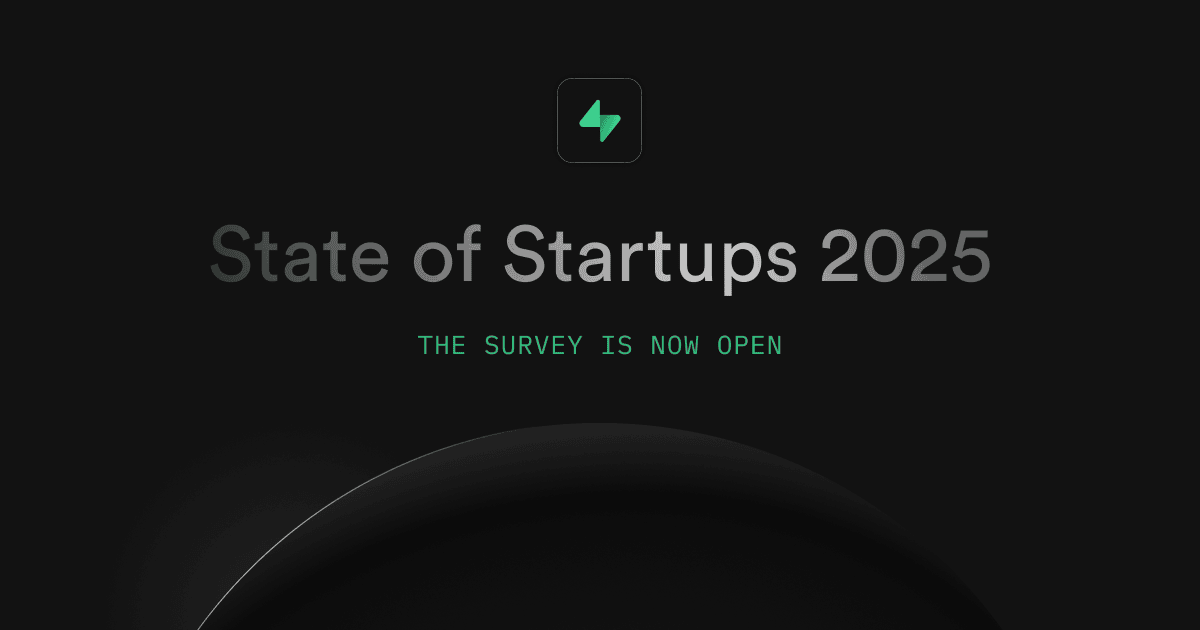
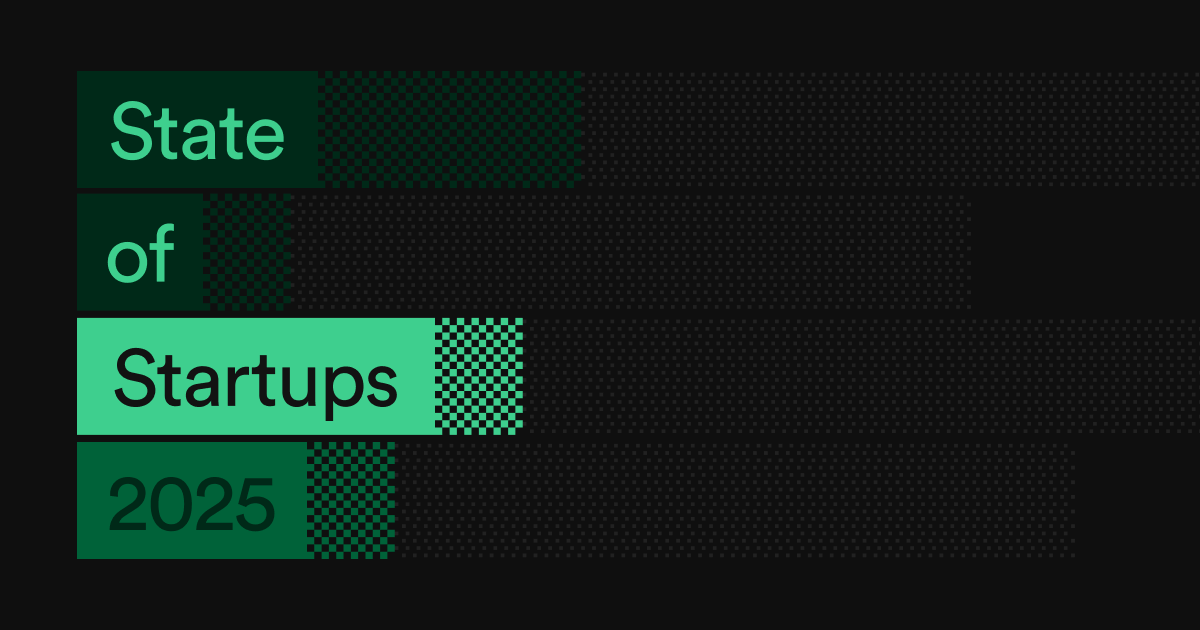
Chore/state of startups (#38733)
* Add StateOfStartupsHeader component and update page

Introduces the StateOfStartupsHeader component for improved header styling on the state-of-startups page. Updates the page to use the new header and refactors the intro section layout. Adds a feature flag override for 'stateOfStartups' in useFlag for debugging purposes.

* Update StateOfStartupsHeader.tsx

* Update StateOfStartupsHeader.tsx

* Refactor progress bar components for reusability

Extracted a reusable ProgressBar component from DecorativeProgressBar and integrated it into StateOfStartupsHeader. Added support for configurable progress bars in header text blocks, improving code modularity and visual customization.

* Refactor StateOfStartupsHeader and update usage

Simplifies StateOfStartupsHeader by removing unused props and internalizing display logic. Progress bar delays are now randomized for a more dynamic effect. Updates state-of-startups.tsx to use the new header signature and removes legacy/commented code.

* Update StateOfStartupsHeader.tsx

* Update state-of-startups-og.png

* Update StateOfStartupsHeader.tsx

* Update header text color and OG image for State of Startups

Changed the 2025 TextBlock text color to 'text-brand-300' for improved visual consistency. Updated the Open Graph image for State of Startups.

diff --git a/apps/www/pages/state-of-startups.tsx b/apps/www/pages/state-of-startups.tsx
@@ -13,6 +13,7 @@ import { DecorativeProgressBar } from '~/components/SurveyResults/DecorativeProg
 import { SurveyChapter } from '~/components/SurveyResults/SurveyChapter'
 import { SurveyChapterSection } from '~/components/SurveyResults/SurveyChapterSection'
 import { SurveySectionBreak } from '~/components/SurveyResults/SurveySectionBreak'
+import { StateOfStartupsHeader } from '~/components/SurveyResults/StateOfStartupsHeader'
 
 import { useSendTelemetryEvent } from '~/lib/telemetry'
 
@@ -206,66 +207,32 @@ function StateOfStartupsPage() {
         <FloatingTableOfContents />
         {/* Intro section */}
         <section ref={heroRef} className="w-full">
-          {/* Text contents */}
-          <header className="w-full flex flex-col md:flex-col">
-            <div className="flex flex-col md:flex-row">
-              {/* Intro area */}
-              <div
-                style={
-                  {
-                    '--left-width': 'calc((50% - 60rem / 2) + (60rem * 1/3))',
-                  } as React.CSSProperties
-                }
-                className="md:border-r border-muted border-opacity-50 md:text-right flex-1 md:max-w-[var(--left-width)]"
-              >
-                <DecorativeProgressBar />
-
-                <p className="text-brand-link text-sm font-mono uppercase px-8 pt-12 text-balance">
-                  Supabase presents the 2025
-                </p>
-              </div>
-
-              {/* Headline area */}
-              <div
-                className="px-8 pt-10 pb-16 md:pt-36 md:pb-28 flex-1"
-                style={{
-                  background: `radial-gradient(ellipse at -35% 215%, hsl(var(--brand-400)), transparent 70%)`,
-                }}
-              >
-                <h1 className="text-7xl sm:text-8xl lg:text-9xl tracking-tight">
-                  State of
-                  <br /> Startups
-                </h1>
-              </div>
+          <StateOfStartupsHeader />
+          <SurveySectionBreak className="hidden md:block" />
+          <div className="grid grid-cols-1 md:grid-cols-3 max-w-[60rem] mx-auto md:border-x border-muted">
+            {/* Intro text */}
+            <div className="md:col-span-2 flex flex-col gap-4 px-8 py-10 border-b md:border-b-0 md:border-r border-muted text-foreground text-xl md:text-2xl text-balance">
+              <p>{pageData.heroSection.subheader}</p>
+              <p>{pageData.heroSection.cta}</p>
             </div>
 
-            <SurveySectionBreak className="hidden md:block" />
-
-            <div className="grid grid-cols-1 md:grid-cols-3 max-w-[60rem] mx-auto md:border-x border-muted">
-              {/* Intro text */}
-              <div className="md:col-span-2 flex flex-col gap-4 px-8 py-10 border-b md:border-b-0 md:border-r border-muted text-foreground text-xl md:text-2xl text-balance">
-                <p>{pageData.heroSection.subheader}</p>
-                <p>{pageData.heroSection.cta}</p>
-              </div>
-
-              {/* Table of contents */}
-              <ol className="flex flex-col py-5">
-                {pageData.pageChapters.map((chapter, chapterIndex) => (
-                  <li key={chapterIndex + 1}>
-                    <Link
-                      href={`#chapter-${chapterIndex + 1}`}
-                      className="group flex flex-row gap-5 py-3 pl-7 pr-8 font-mono uppercase tracking-wide text-sm transition-all text-foreground-light hover:text-brand-link hover:bg-brand-300/25"
-                    >
-                      <span className="text-xs rounded-full bg-surface-75 border border-surface-200 group-hover:border-brand-500/40 w-5 h-5 flex items-center justify-center group-hover:bg-brand-600/5">
-                        {chapterIndex + 1}
-                      </span>{' '}
-                      {chapter.shortTitle}
-                    </Link>
-                  </li>
-                ))}
-              </ol>
-            </div>
-          </header>
+            {/* Table of contents */}
+            <ol className="flex flex-col py-5">
+              {pageData.pageChapters.map((chapter, chapterIndex) => (
+                <li key={chapterIndex + 1}>
+                  <Link
+                    href={`#chapter-${chapterIndex + 1}`}
+                    className="group flex flex-row gap-5 py-3 pl-7 pr-8 font-mono uppercase tracking-wide text-sm transition-all text-foreground-light hover:text-brand-link hover:bg-brand-300/25"
+                  >
+                    <span className="text-xs rounded-full bg-surface-75 border border-surface-200 group-hover:border-brand-500/40 w-5 h-5 flex items-center justify-center group-hover:bg-brand-600/5">
+                      {chapterIndex + 1}
+                    </span>{' '}
+                    {chapter.shortTitle}
+                  </Link>
+                </li>
+              ))}
+            </ol>
+          </div>
 
           <SurveySectionBreak />
         </section>

diff --git a/apps/www/components/SurveyResults/StateOfStartupsHeader.tsx b/apps/www/components/SurveyResults/StateOfStartupsHeader.tsx
@@ -1,0 +1,136 @@
+import { useMemo } from 'react'
+import { ProgressBar } from './DecorativeProgressBar'
+
+interface StateOfStartupsHeaderProps {
+  showProgressBars?: boolean
+}
+
+const DiagonalStripes = () => (
+  <div
+    className="flex-grow"
+    style={{
+      backgroundImage: `repeating-linear-gradient(
+        45deg,
+        hsl(var(--border-muted)) 0px,
+        hsl(var(--border-muted)) 1px,
+        transparent 1px,
+        transparent 8px
+      )`,
+    }}
+  />
+)
+
+const HeaderProgressBar = ({
+  delay = 0,
+  progressBgColor = 'bg-foreground-muted/80',
+  progressFgColor,
+}: {
+  delay?: number
+  progressBgColor?: string
+  progressFgColor?: string
+}) => (
+  <div className="flex-grow">
+    <ProgressBar
+      className="h-full"
+      backgroundClassName={progressBgColor}
+      foregroundClassName={progressFgColor}
+      animationDelay={`${delay}s`}
+    />
+  </div>
+)
+
+interface TextBlockProps {
+  text: string
+  bgColor: string
+  textColor: string
+  showProgressBar?: boolean
+}
+
+const TextBlock = ({
+  text,
+  bgColor,
+  textColor,
+  showProgressBar = true,
+  delay = 0,
+  progressBgColor,
+  progressFgColor,
+}: TextBlockProps & { delay?: number; progressBgColor?: string; progressFgColor?: string }) => (
+  <div className="flex w-full items-stretch">
+    <div className={`inline-block ${bgColor}`}>
+      <span
+        className={`${textColor} text-[2rem] md:text-[4rem] px-2.5 md:px-8 py-1.5 md:py-3 inline-block leading-none tracking-tight`}
+        // style={{ fontFamily: SUISSE_FONT_FAMILY }}
+      >
+        {text}
+      </span>
+    </div>
+    {showProgressBar ? (
+      <HeaderProgressBar
+        delay={delay}
+        progressBgColor={progressBgColor}
+        progressFgColor={progressFgColor}
+      />
+    ) : (
+      <DiagonalStripes />
+    )}
+  </div>
+)
+
+export function StateOfStartupsHeader({ showProgressBars = true }: StateOfStartupsHeaderProps) {
+  // Generate stable random delays between 0.2 and 2 seconds for each TextBlock
+  const randomDelays = useMemo(
+    () => [
+      0.2 + Math.random() * 1.8,
+      0.2 + Math.random() * 1.8,
+      0.2 + Math.random() * 1.8,
+      0.2 + Math.random() * 1.8,
+    ],
+    []
+  )
+
+  return (
+    <header className="mt-16 md:mt-32">
+      <div className="max-w-[60rem] ml-8 md:mx-auto">
+        <div className="flex flex-col gap-0.5 md:gap-1">
+          <h1 className="sr-only">State of Startups 2025</h1>
+          <TextBlock
+            text="State"
+            bgColor="bg-brand-300"
+            textColor="text-brand"
+            showProgressBar={showProgressBars}
+            delay={randomDelays[0]}
+            progressBgColor="bg-surface-400 dark:bg-surface-300"
+            progressFgColor="bg-brand-300"
+          />
+          <TextBlock
+            text="of"
+            bgColor="bg-brand-300"
+            textColor="text-brand"
+            showProgressBar={showProgressBars}
+            delay={randomDelays[1]}
+            progressBgColor="bg-surface-400 dark:bg-surface-300"
+            progressFgColor="bg-brand-300"
+          />
+          <TextBlock
+            text="Startups"
+            bgColor="bg-brand"
+            textColor="text-background dark:text-brand-200"
+            showProgressBar={showProgressBars}
+            delay={randomDelays[2]}
+            progressBgColor="bg-surface-400 dark:bg-surface-300"
+            progressFgColor="bg-brand dark:bg-brand"
+          />
+          <TextBlock
+            text="2025"
+            bgColor="bg-brand-500"
+            textColor="text-brand-300"
+            showProgressBar={showProgressBars}
+            delay={randomDelays[3]}
+            progressBgColor="bg-surface-400 dark:bg-surface-300"
+            progressFgColor="bg-brand-500"
+          />
+        </div>
+      </div>
+    </header>
+  )
+}

diff --git a/apps/www/components/SurveyResults/DecorativeProgressBar.tsx b/apps/www/components/SurveyResults/DecorativeProgressBar.tsx
@@ -1,3 +1,48 @@
+interface ProgressBarProps {
+  className?: string
+  backgroundClassName?: string
+  foregroundClassName?: string
+  animationDelay: string
+  reverse?: boolean
+}
+
+export function ProgressBar({
+  className = 'h-4',
+  backgroundClassName = 'bg-foreground-muted/80',
+  foregroundClassName = 'bg-brand',
+  animationDelay,
+  reverse = false,
+}: ProgressBarProps) {
+  return (
+    <div className={`relative ${className}`}>
+      {/* Background bar (static) */}
+      <div
+        className={`h-full w-full ${backgroundClassName}`}
+        style={{
+          maskImage: 'url("/images/state-of-startups/pattern-stipple.svg")',
+          maskSize: '4px',
+          maskRepeat: 'repeat',
+          maskPosition: 'center',
+        }}
+      />
+
+      {/* Animated foreground bar */}
+      <div
+        className={`absolute inset-0 h-full w-full ${foregroundClassName}`}
+        style={{
+          maskImage: 'url("/images/state-of-startups/pattern-checker.svg")',
+          maskSize: '4px',
+          maskRepeat: 'repeat',
+          maskPosition: 'top left',
+          clipPath: 'inset(0 100% 0 0)',
+          animation: `terminalLine 10s steps(8, end) ${animationDelay} infinite ${reverse ? 'reverse' : ''}`,
+          animationFillMode: 'both',
+        }}
+      />
+    </div>
+  )
+}
+
 interface DecorativeProgressBarProps {
   /** Whether to reverse the animation direction */
   reverse?: boolean
@@ -40,30 +85,14 @@ export function DecorativeProgressBar({
       }}
     >
       {progressBars.map((bar, index) => (
-        <div key={`progress-bar-${index}`} className="relative">
-          {/* Background bar (static) */}
-          <div
-            className={`${bar.height} w-full ${bar.bgColor}`}
-            style={{
-              maskImage: 'url("/images/state-of-startups/pattern-stipple.svg")',
-              maskSize: '4px',
-              maskRepeat: 'repeat',
-              maskPosition: 'center',
-            }}
-          />
-
-          {/* Animated foreground bar */}
-          <div
-            className={`absolute inset-0 ${bar.height} w-full ${bar.fgColor}`}
-            style={{
-              maskImage: 'url("/images/state-of-startups/pattern-checker.svg")',
-              maskSize: '4px',
-              maskRepeat: 'repeat',
-              maskPosition: 'top left',
-              animation: `terminalLine 10s steps(8, end) ${bar.animationDelay} infinite ${reverse ? 'reverse' : ''}`,
-            }}
-          />
-        </div>
+        <ProgressBar
+          key={`progress-bar-${index}`}
+          className={bar.height}
+          backgroundClassName={bar.bgColor}
+          foregroundClassName={bar.fgColor}
+          animationDelay={bar.animationDelay}
+          reverse={reverse}
+        />
       ))}
     </div>
   )
